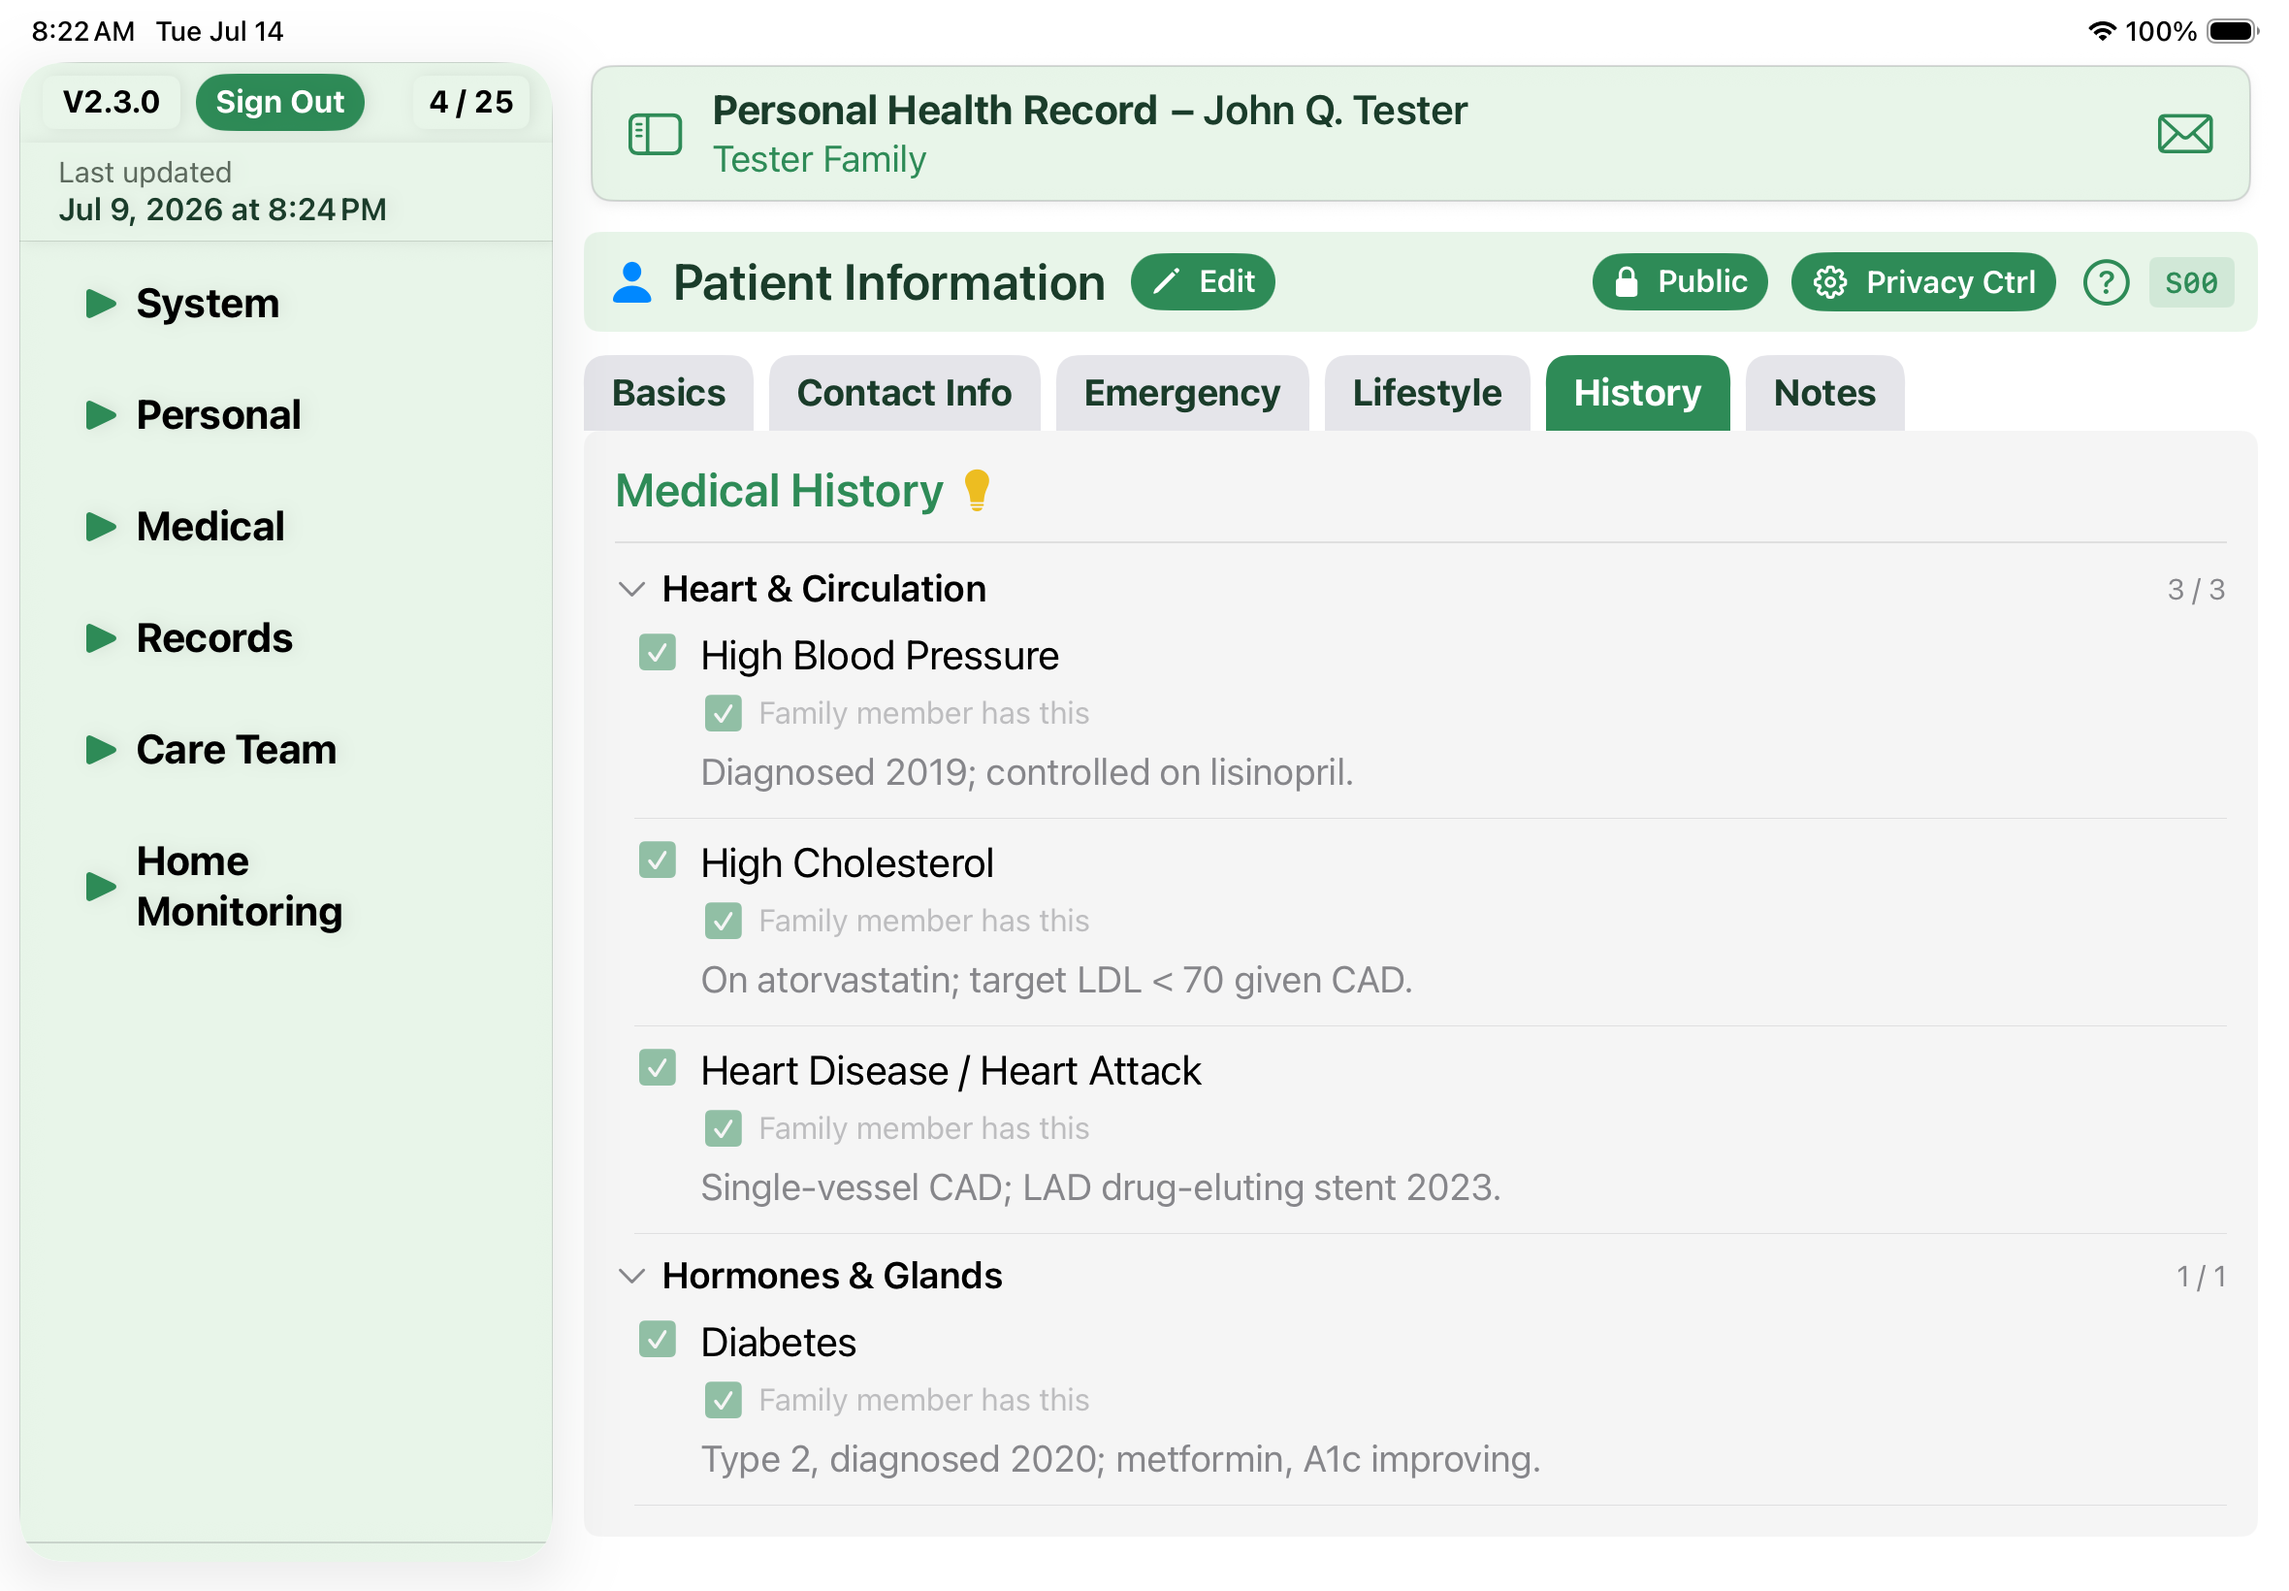
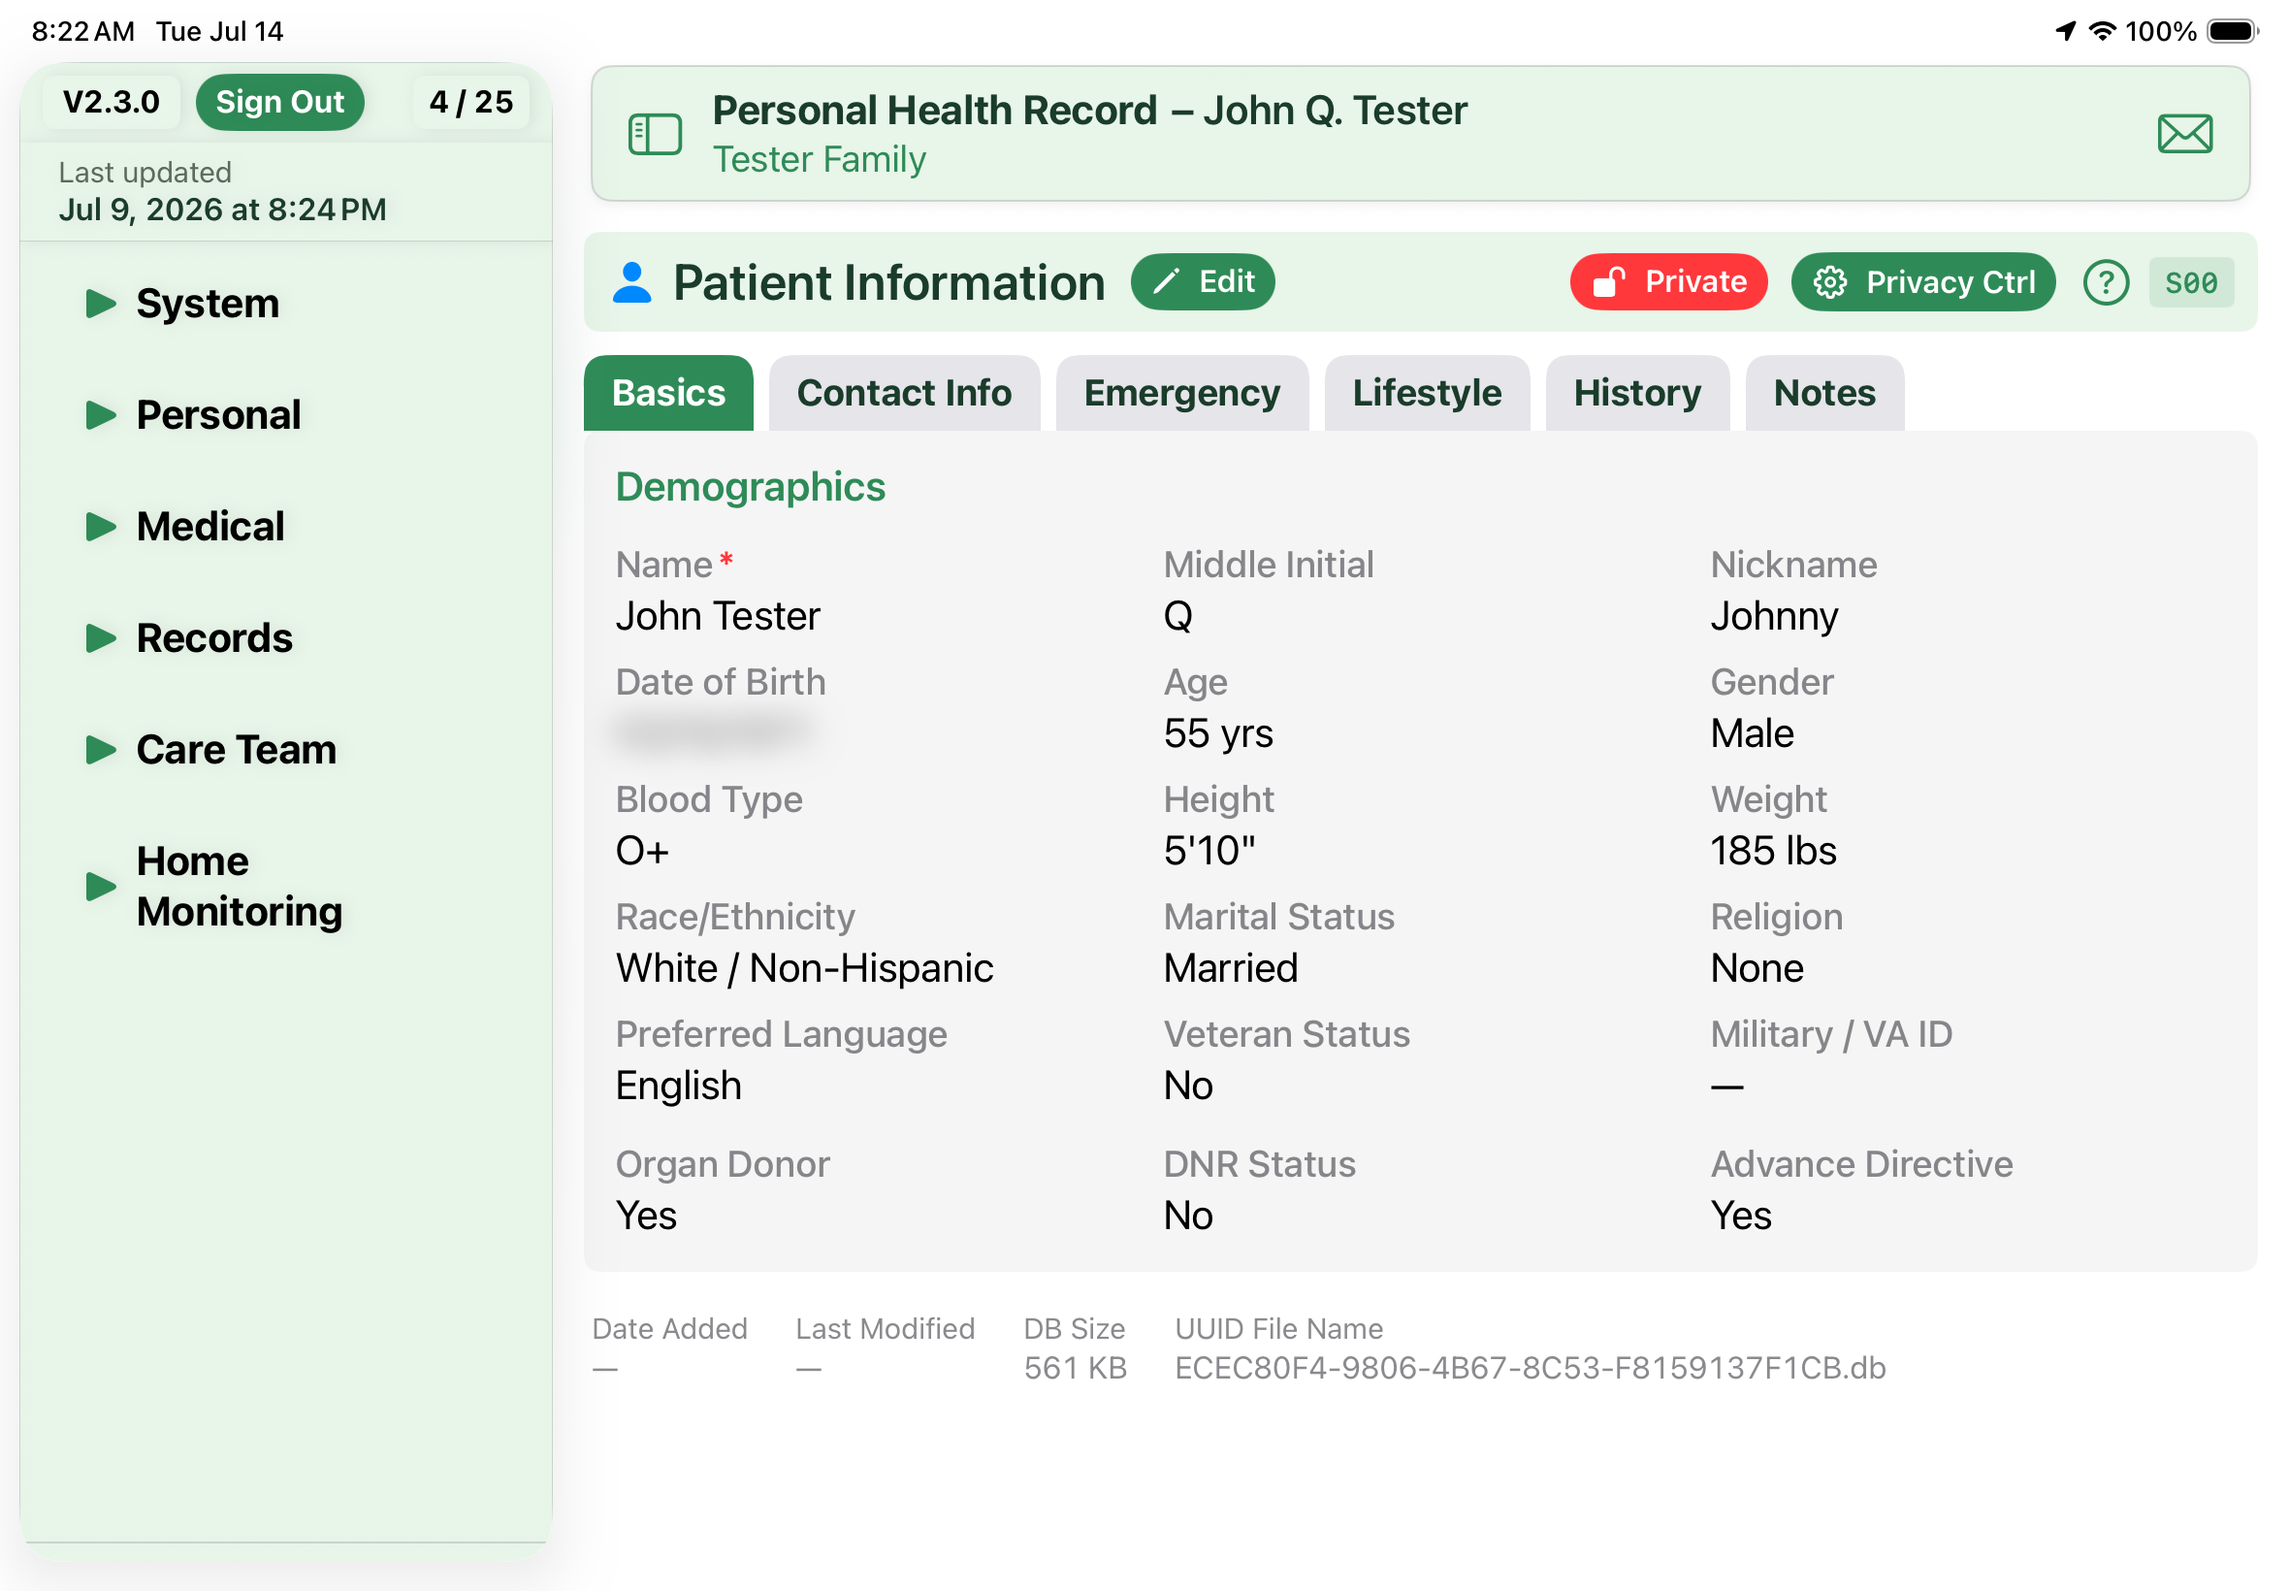
Update website

diff --git a/features.html b/features.html
@@ -263,11 +263,11 @@
         <h3>For Every User — Help, Reference, and Audit</h3>
         <p>A few helpers in Settings that every user can reach, regardless of whether they&#39;re the Owner.</p>
         <ul class="feature-list">
-          <li>&lt;strong&gt;Setup Guide&lt;/strong&gt; — A walk-through for getting started with the app, plus pointers to the backup and import features.</li>
-          <li>&lt;strong&gt;Contact Support&lt;/strong&gt; — Tap once to open a pre-filled email to support. The message is sent from your own email account, so no credentials leave the app.</li>
-          <li>&lt;strong&gt;Support Tickets&lt;/strong&gt; — Every support email you send is auto-saved so you can refer back to what you asked.</li>
-          <li>&lt;strong&gt;LOINC Reference Table&lt;/strong&gt; — Browse the bundled catalog of 678 lab test codes (across 25 panels) used to standardize lab result names. Search by name, code, or panel — handy when comparing reports from different labs.</li>
-          <li>&lt;strong&gt;Login Audit&lt;/strong&gt; — A history of your own login activity for peace of mind.</li>
+          <li><strong>Setup Guide</strong> — A walk-through for getting started with the app, plus pointers to the backup and import features.</li>
+          <li><strong>Contact Support</strong> — Tap once to open a pre-filled email to support. The message is sent from your own email account, so no credentials leave the app.</li>
+          <li><strong>Support Tickets</strong> — Every support email you send is auto-saved so you can refer back to what you asked.</li>
+          <li><strong>LOINC Reference Table</strong> — Browse the bundled catalog of 678 lab test codes (across 25 panels) used to standardize lab result names. Search by name, code, or panel — handy when comparing reports from different labs.</li>
+          <li><strong>Login Audit</strong> — A history of your own login activity for peace of mind.</li>
         </ul>
       </div>
     </div>
@@ -277,16 +277,32 @@
         <img src="screenshots/feature-h03.png" alt="Blog">
       </div>
       <div>
-        <h3>Blog</h3>
+        <h3>News and Tips, Delivered Inside the App</h3>
+        <p>Announcements, fixes, and how-tos show up right in PHR, between App Store releases.</p>
+        <ul class="feature-list">
+          <li>Unread posts wear a green New pill; urgent ones get an orange flag and a Got It button so nothing important slides by</li>
+          <li>Search filters the list as you type, by headline or teaser</li>
+          <li>Tap any post to read it in a floating window you can drag and resize</li>
+          <li>Print a post or save it as a PDF straight from the card</li>
+          <li>Posts are cached so the screen works offline — and only the public article list is fetched; nothing about you or your records is sent anywhere</li>
+        </ul>
       </div>
     </div>
 
     <div class="feature-detail">
       <div>
-        <img src="screenshots/feature-s00.png" alt="Patient Information – History">
+        <img src="screenshots/feature-s00-history.png" alt="Patient Information – History">
       </div>
       <div>
-        <h3>Patient Information – History</h3>
+        <h3>The Intake Form You Fill Out Once</h3>
+        <p>The checklist every new doctor hands you, kept current on your iPad and ready to print.</p>
+        <ul class="feature-list">
+          <li>About 30 common conditions, grouped by body system — heart, lungs, mental health, cancer, and the rest</li>
+          <li>Tick what applies and add a comment in your own words</li>
+          <li>Flag family history on the items where it actually matters clinically</li>
+          <li>Add your own items for anything the standard list misses</li>
+          <li>Questions that don&#39;t apply to you are hidden automatically, and you decide whether the whole section prints or stays private</li>
+        </ul>
       </div>
     </div>
 
@@ -295,7 +311,15 @@
         <img src="screenshots/feature-s02.png" alt="Contact – Jane Tester">
       </div>
       <div>
-        <h3>Contact – Jane Tester</h3>
+        <h3>One Address Book the Whole Record Draws From</h3>
+        <p>Everyone in your health circle in one place — and every other screen can point at them.</p>
+        <ul class="feature-list">
+          <li>Sort people by type — family, friend, medical, legal, insurance — and control the order they list in</li>
+          <li>Phone numbers format themselves, and Same as Patient fills in the address in a tap</li>
+          <li>Mark who&#39;s authorized to discuss your health information, with notes on exactly what they may be told</li>
+          <li>The same contacts fill emergency contacts on Patient Information and agent roles on legal documents</li>
+          <li>Delete safely — PHR tells you everywhere a contact is used before anything changes</li>
+        </ul>
       </div>
     </div>
 
